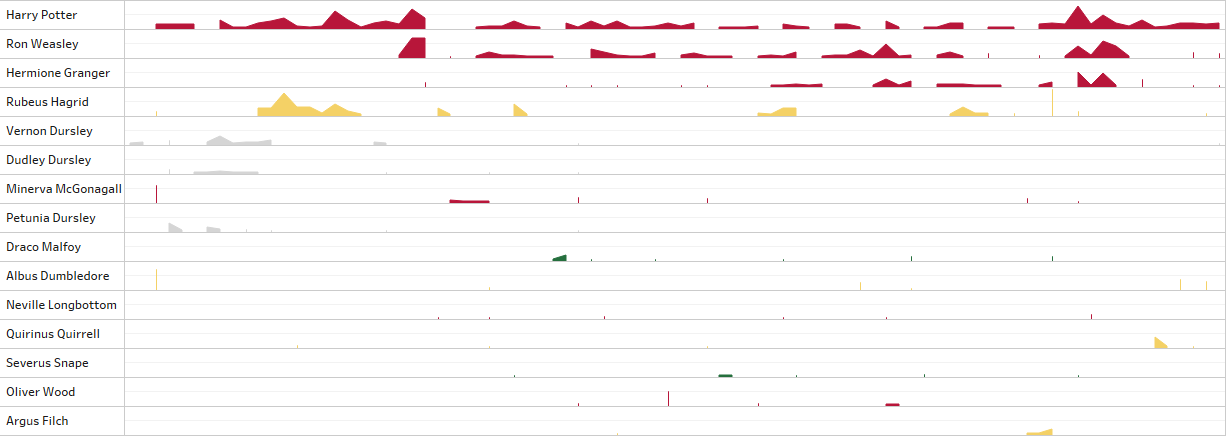
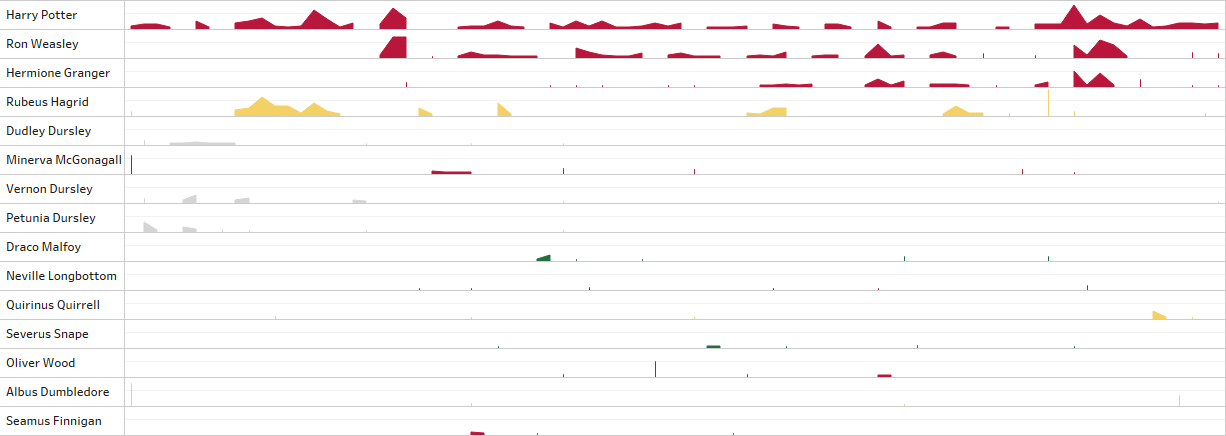
HP sna draft

diff --git a/_drafts/quanto-piccolo-mondo-harry-potter.md b/_drafts/quanto-piccolo-mondo-harry-potter.md
@@ -8,18 +8,24 @@ header:
 
 Venti anni fa, nel 1998, usciva in Italia _"Harry Potter e la Pietra Filosofale"_, il primo della serie di romanzi partoriti dalla penna di [J. K. Rowling](https://www.jkrowling.com/) che sarà destinata a cambiare per sempre sia la narrativa _young adults_ che il genere fantasy tout cour. Ammetto di aver scoperto relativamente tardi i volumi; e questo, credo, mi ha permesso di apprezzarli maggiormente e cogliere delle interessanti sfumature.
 
-Affascinato dal mondo incredibilmente immersivo creato dalla Rowling, dalla narrazione generazionale e dalle relazioni tra i personaggi, mi sono subito chiesto: ma il mondo di Harry è a tutti gli effetti uno _small world?_
+Affascinato dal mondo incredibilmente immersivo creato dalla Rowling, dalle vicende e dalle relazioni tra i personaggi, mi sono subito chiesto: ma il mondo di Harry è a tutti gli effetti uno _small world?_
 
-Ebbene, la Social Network Analysis può essere applicata anche al mondo della letteratura e dei romanzi; i risultati sono, come vedremo subito, stimolanti e, talvolta, inaspettati.
+Ebbene, molte tecniche di Social Network Analysis possono essere applicate anche alla fiction e alle letteratura, purché adeguatamente "preparate"; i risultati sono, come vedremo subito, stimolanti e, talvolta, inaspettati.
 
-Se, invece, siete più interessati ai dettagli tecnici con cui ho preparato e studiato il testo per costruire la rete, vi consiglio di saltare alla sezione relativa, più in basso, dove troverete anche ampi rimandi al codice sorgente disponibile su Github.
+Se, invece, siete più interessati ai dettagli tecnici, saltate alla sezione relativa, più in basso, dove troverete anche ampi rimandi al codice sorgente disponibile su Github.
 
 Il testo  utilizzato per l'analisi è la versione ePub in lingua inglese, acquistata dal [sito ufficiale](https://www.pottermore.com/).
 
 ## Una prima occhiata a "La pietra Filosofale"
 
-Il primo volume, quello di cui ci occuperemo qui, ha più che altro lo scopo di introdurre i personaggi e delineare i ruoli (l'eroe, il supporto, l'antagonista, ecc.); lascia intravedere il sottobosco di personaggi che gravitano attorno alla Scuola di Magia e di Stregoneria di Hogwarts, ma non ne approfondisce ancora le relazioni. Questo non è un problema: ciò che ci interessa, in effetti, sono le _conversazioni_; solo se i personaggi sono stati coinvolti almeno in una conversazione, infatti, questi potranno essere considerati come aventi una reciproca relazione sociale.
+Il primo volume della serie ha più che altro lo scopo di introdurre i personaggi e delinearne i ruoli (l'eroe, il supporto, l'antagonista, [eccetera](https://it.wikipedia.org/wiki/Narratologia)); introduce i personaggi che gravitano attorno alla Scuola di Magia e di Stregoneria di Hogwarts, ma non ne approfondisce le relazioni. Questo non è un problema: ciò che ci interessa, in effetti, non è l'importanza narrativa degli attori, ma le loro _conversazioni_; solo se i personaggi sono stati coinvolti almeno in una conversazione, infatti, questi potranno dire di avere una reciproca relazione sociale.
 
 {% include figure image_path="/assets/images/harry-potter-philosophers-timeline.png" alt="Timeline delle conversazioni dei 15 personaggi principali in Harry Potter e la Pietra Filosofale" caption="Top 15 Personaggi e loro linee di dialogo, in ordine decrescente" %}
 
-Dallo lettura delle sequenze dei dialoghi, vediamo immediatamente che il libro si concentra attorno alle vicende del protagonista, Harry; egli è, infatti, presente in quasi tutte le conversazioni. La rete, c'è da aspettarsi, avrà spiccate caratteristiche di una ego-network, forse sarà addirittura una rete a stella.
+Dallo lettura delle sequenze dei dialoghi, vediamo immediatamente che il libro si concentra attorno alle vicende del protagonista, Harry; egli è, infatti, presente in quasi tutte le conversazioni. La rete, c'è da aspettarsi, avrà spiccate caratteristiche di una ego-network, forse sarà addirittura una rete (quasi) a stella. Non c'è da stupirsi: tutta la storia si svolge attorno a Harry e tutte le reti sociali espresse hanno nel giovane mago se non il centro nevralgico, almeno uno spettatore privilegiato.
+
+Poiché la mia ipotesi di lavoro è stata di considerare tutti i personaggi riscontrati in una conversazione come una _clique_ non diretta, mi aspetto, inoltre, una rete con un elevato coefficiente di clustering e un _average degree_ piuttosto alto. Vediamola subito.
+
+{% include figure image_path="/assets/images/harry-potter-philosophers-network.png" caption="La rete individuata dai personaggi del libro in base alle loro conversazioni" caption="Harry Potter e la Pietra Filosofale - rete costruita con Gephi" %}
+
+Chiaramente Harry è al centro della rete e forma una _clique_ molto stretta con, come prevedibile, Ron ed Hermione - gli altri due principali protagonisti del romanzo. Anche Hagrid ha un ruolo di primo piano, così come la Professoressa McGonagall, mentre di altri personaggi di primo piano della saga, almeno dal punto di vista narrativo, non diresti che hanno un rapporto stretto con Harry, a giudicare dalle conversazioni che i due hanno tenuto insieme (Albus Silente su tutti). Comunque sia, con i suoi 33 segmenti su 36 nodi totali, Harry è inequivocabilmente al centro di una ego-rete fortemente stellata.
